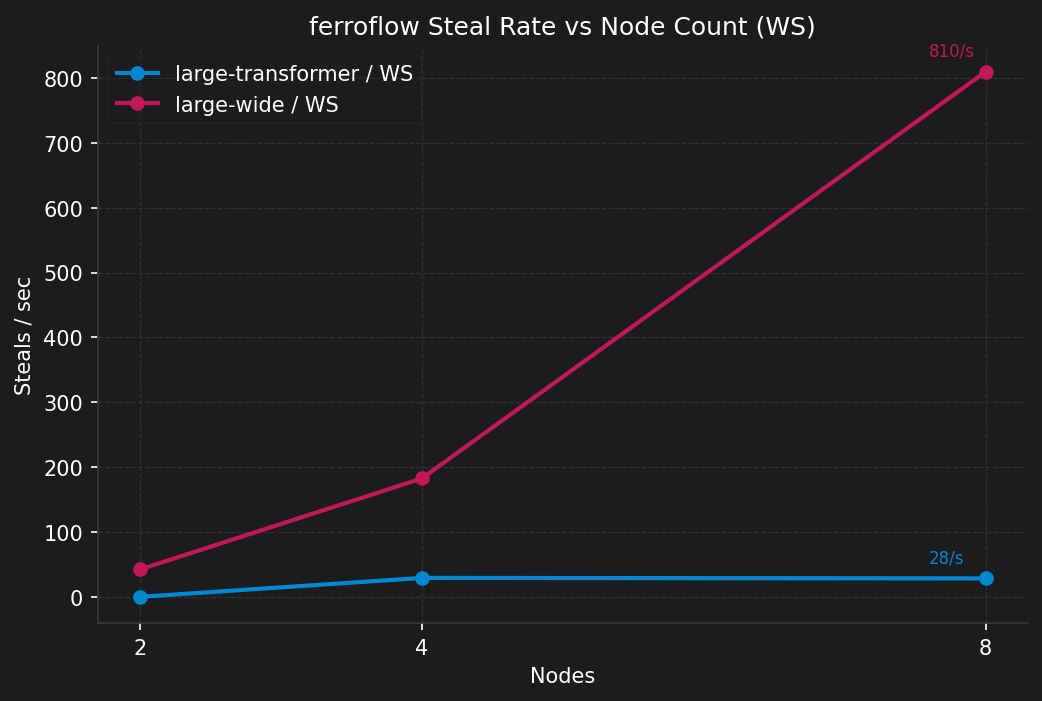
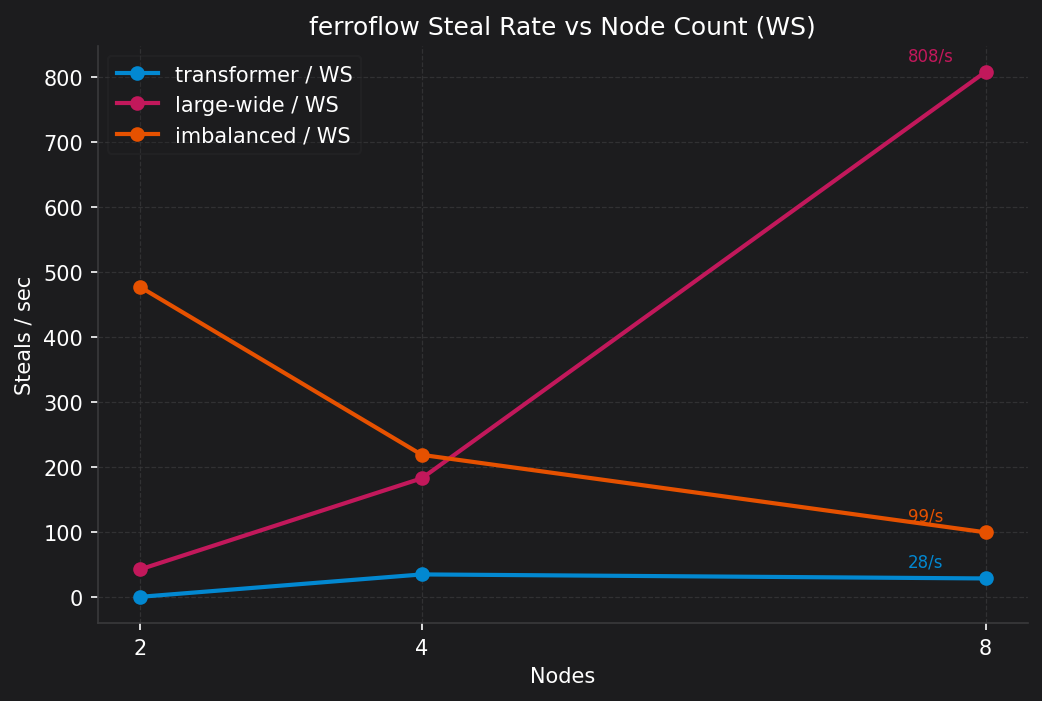
docs: rewrite scaling analysis to lead with imbalanced DAG finding, 12.7% WS advantage, honest per-workload interpretation

diff --git a/scripts/plot_scaling.py b/scripts/plot_scaling.py
@@ -2,9 +2,10 @@
 Generate ferroflow strong-scaling plots from docs/data/scaling_results.json.
 
 Outputs:
-  docs/plots/scaling_throughput.png  — throughput vs nodes (2 subplots, one per DAG)
-  docs/plots/scaling_efficiency.png  — parallel efficiency vs nodes
-  docs/plots/steal_rate.png          — steal rate vs nodes (WS only)
+  docs/plots/scaling_throughput.png  — throughput vs nodes (3 subplots, one per DAG)
+  docs/plots/scaling_efficiency.png  — parallel efficiency vs nodes (WS, all DAGs)
+  docs/plots/steal_rate.png          — steal rate vs nodes (WS only, all DAGs)
+  docs/plots/ws_advantage.png        — % WS throughput improvement over static
 """
 
 import json
@@ -21,23 +22,28 @@ PLOTS   = pathlib.Path(__file__).parent.parent / "docs" / "plots"
 DARK_BG  = "#1c1c1e"
 GRID_COL = "#3a3a3c"
 
-# Colours keyed by (dag, scheduler)
 COLORS = {
     ("large-transformer", "static"):        "#4fc3f7",
     ("large-transformer", "work-stealing"): "#0288d1",
     ("large-wide",        "static"):        "#f48fb1",
     ("large-wide",        "work-stealing"): "#c2185b",
+    ("imbalanced",        "static"):        "#ffcc80",
+    ("imbalanced",        "work-stealing"): "#e65100",
 }
 LABELS = {
-    ("large-transformer", "static"):        "large-transformer / static",
-    ("large-transformer", "work-stealing"): "large-transformer / WS",
+    ("large-transformer", "static"):        "transformer / static",
+    ("large-transformer", "work-stealing"): "transformer / WS",
     ("large-wide",        "static"):        "large-wide / static",
     ("large-wide",        "work-stealing"): "large-wide / WS",
+    ("imbalanced",        "static"):        "imbalanced / static",
+    ("imbalanced",        "work-stealing"): "imbalanced / WS",
 }
 DAG_TITLES = {
-    "large-transformer": "Large Transformer (137 ops, 8 layers)",
-    "large-wide":        "Large Wide (321 ops, flat fan-out, skew=0.47)",
+    "large-transformer": "Large Transformer\n(137 ops, 8 layers, d=512)",
+    "large-wide":        "Large Wide\n(321 ops, flat fan-out, skew=0.47)",
+    "imbalanced":        "Imbalanced\n(4 heavy×200ms + 200 fast×1ms)",
 }
+ALL_DAGS = ["large-transformer", "large-wide", "imbalanced"]
 
 
 def load(path):
@@ -55,6 +61,7 @@ def series(data, dag, scheduler):
         [r["throughput"] for r in rows],
         [r["efficiency"] for r in rows],
         [r["steal_rate"] for r in rows],
+        [r.get("stddev", 0.0) for r in rows],
     )
 
 
@@ -78,31 +85,37 @@ def save_fig(fig, path):
 
 
 # ---------------------------------------------------------------------------
-# Plot 1 — Throughput (two subplots — DAGs have very different scales)
+# Plot 1 — Throughput (3 subplots, one per DAG)
 # ---------------------------------------------------------------------------
 def plot_throughput(data):
-    dags = ["large-transformer", "large-wide"]
-    fig, axes = plt.subplots(1, 2, figsize=(13, 5))
+    fig, axes = plt.subplots(1, 3, figsize=(18, 5))
     fig.patch.set_facecolor(DARK_BG)
     fig.suptitle("ferroflow Strong Scaling — Throughput", color="white", fontsize=13)
 
     all_nodes = sorted({r["nodes"] for r in data})
 
-    for ax, dag in zip(axes, dags):
+    for ax, dag in zip(axes, ALL_DAGS):
         style_ax(ax)
 
-        for sched in ("static", "work-stealing"):
-            nodes, tput, _, _ = series(data, dag, sched)
-            ax.plot(nodes, tput, marker="o", linewidth=2, markersize=6,
-                    color=COLORS[(dag, sched)], label=LABELS[(dag, sched)])
+        s_nodes, s_tp, _, _, s_std = series(data, dag, "static")
+        w_nodes, w_tp, _, _, w_std = series(data, dag, "work-stealing")
 
-        # ideal linear line anchored at 2-node WS throughput
-        base_nodes_list, base_tput_list, _, _ = series(data, dag, "work-stealing")
-        base_n = base_nodes_list[0]
-        base_t = base_tput_list[0]
+        ax.errorbar(s_nodes, s_tp, yerr=s_std, marker="s", linewidth=2, markersize=6,
+                    capsize=4, color=COLORS[(dag, "static")], label="static")
+        ax.errorbar(w_nodes, w_tp, yerr=w_std, marker="o", linewidth=2, markersize=6,
+                    capsize=4, color=COLORS[(dag, "work-stealing")], label="WS")
+
+        # fill between to highlight WS advantage on imbalanced
+        if dag == "imbalanced":
+            ax.fill_between(w_nodes, s_tp, w_tp,
+                            color=COLORS[(dag, "work-stealing")], alpha=0.15,
+                            label="WS gain")
+
+        # ideal linear anchored at 2-node static
+        base_n, base_t = s_nodes[0], s_tp[0]
         ideal_x = np.array([base_n, max(all_nodes)])
         ideal_y = base_t * (ideal_x / base_n)
-        ax.plot(ideal_x, ideal_y, linestyle=":", linewidth=1.4,
+        ax.plot(ideal_x, ideal_y, linestyle=":", linewidth=1.2,
                 color="#aaaaaa", label="ideal (linear)", alpha=0.7)
 
         ax.set_xscale("log", base=2)
@@ -110,7 +123,7 @@ def plot_throughput(data):
         ax.set_xticklabels([str(n) for n in all_nodes])
         ax.set_xlabel("Nodes")
         ax.set_ylabel("Throughput (ops/s)")
-        ax.set_title(DAG_TITLES[dag], fontsize=10)
+        ax.set_title(DAG_TITLES[dag], fontsize=9, color="white")
         ax.legend(framealpha=0.2, labelcolor="white",
                   facecolor=DARK_BG, edgecolor=GRID_COL, fontsize=8)
 
@@ -119,7 +132,7 @@ def plot_throughput(data):
 
 
 # ---------------------------------------------------------------------------
-# Plot 2 — Parallel efficiency (both DAGs, WS series only)
+# Plot 2 — Parallel efficiency (WS, all 3 DAGs)
 # ---------------------------------------------------------------------------
 def plot_efficiency(data):
     fig, ax = plt.subplots(figsize=(8, 5))
@@ -128,22 +141,20 @@ def plot_efficiency(data):
 
     all_nodes = sorted({r["nodes"] for r in data})
 
-    for dag in ("large-transformer", "large-wide"):
+    for dag in ALL_DAGS:
         color = COLORS[(dag, "work-stealing")]
-        nodes, _, eff, _ = series(data, dag, "work-stealing")
-        ax.plot(nodes, eff, marker="o", linewidth=2, markersize=6,
+        nodes, _, eff, _, _ = series(data, dag, "work-stealing")
+        lw = 2.5 if dag == "large-wide" else 2.0
+        ax.plot(nodes, eff, marker="o", linewidth=lw, markersize=6,
                 color=color, label=LABELS[(dag, "work-stealing")])
 
-        # annotate first point below 0.70
-        for n, e in zip(nodes, eff):
-            if e < 0.70:
-                ax.annotate(
-                    f"eff={e:.2f} (n={n})",
-                    xy=(n, e), xytext=(n + 0.3, e + 0.07),
-                    color=color, fontsize=8,
-                    arrowprops=dict(arrowstyle="->", color=color, lw=1.0),
-                )
-                break
+        # annotate the 8-node efficiency value
+        ax.annotate(
+            f"{eff[-1]:.2f}",
+            xy=(nodes[-1], eff[-1]),
+            xytext=(nodes[-1] + 0.15, eff[-1] + (0.04 if dag == "large-wide" else -0.06)),
+            color=color, fontsize=8,
+        )
 
     ax.axhline(0.70, linestyle="--", linewidth=1.4, color="#ffcc02",
                label="0.70 threshold", alpha=0.85)
@@ -152,8 +163,8 @@ def plot_efficiency(data):
     ax.set_xticklabels([str(n) for n in all_nodes])
     ax.set_xlabel("Nodes")
     ax.set_ylabel("Parallel Efficiency")
-    ax.set_ylim(0, 1.15)
-    ax.set_title("ferroflow Strong Scaling — Parallel Efficiency (WS)")
+    ax.set_ylim(0, 1.20)
+    ax.set_title("ferroflow Strong Scaling — Parallel Efficiency (WS)", color="white")
     ax.legend(framealpha=0.2, labelcolor="white",
               facecolor=DARK_BG, edgecolor=GRID_COL)
 
@@ -161,7 +172,7 @@ def plot_efficiency(data):
 
 
 # ---------------------------------------------------------------------------
-# Plot 3 — Steal rate (WS only, both DAGs)
+# Plot 3 — Steal rate (WS only, all 3 DAGs)
 # ---------------------------------------------------------------------------
 def plot_steal_rate(data):
     fig, ax = plt.subplots(figsize=(8, 5))
@@ -170,16 +181,15 @@ def plot_steal_rate(data):
 
     all_nodes = sorted({r["nodes"] for r in data})
 
-    for dag in ("large-transformer", "large-wide"):
+    for dag in ALL_DAGS:
         color = COLORS[(dag, "work-stealing")]
-        nodes, _, _, steal = series(data, dag, "work-stealing")
+        nodes, _, _, steal, _ = series(data, dag, "work-stealing")
         ax.plot(nodes, steal, marker="o", linewidth=2, markersize=6,
                 color=color, label=LABELS[(dag, "work-stealing")])
-        # label the 8-node value
         ax.annotate(
             f"{steal[-1]:.0f}/s",
             xy=(nodes[-1], steal[-1]),
-            xytext=(nodes[-1] - 0.4, steal[-1] + 25),
+            xytext=(nodes[-1] - 0.55, steal[-1] + 18),
             color=color, fontsize=8,
         )
 
@@ -187,11 +197,52 @@ def plot_steal_rate(data):
     ax.set_xticklabels([str(n) for n in all_nodes])
     ax.set_xlabel("Nodes")
     ax.set_ylabel("Steals / sec")
-    ax.set_title("ferroflow Steal Rate vs Node Count (WS)")
+    ax.set_title("ferroflow Steal Rate vs Node Count (WS)", color="white")
     ax.legend(framealpha=0.2, labelcolor="white",
               facecolor=DARK_BG, edgecolor=GRID_COL)
 
     save_fig(fig, PLOTS / "steal_rate.png")
+
+
+# ---------------------------------------------------------------------------
+# Plot 4 — WS advantage: % throughput improvement over static
+# ---------------------------------------------------------------------------
+def plot_ws_advantage(data):
+    fig, ax = plt.subplots(figsize=(8, 5))
+    fig.patch.set_facecolor(DARK_BG)
+    style_ax(ax)
+
+    all_nodes = sorted({r["nodes"] for r in data})
+
+    for dag in ALL_DAGS:
+        color = COLORS[(dag, "work-stealing")]
+        s_nodes, s_tp, _, _, _ = series(data, dag, "static")
+        w_nodes, w_tp, _, _, _ = series(data, dag, "work-stealing")
+
+        pct = [(w - s) / s * 100 for s, w in zip(s_tp, w_tp)]
+        lw = 2.5 if dag == "imbalanced" else 1.8
+        marker = "D" if dag == "imbalanced" else "o"
+        ax.plot(s_nodes, pct, marker=marker, linewidth=lw, markersize=7,
+                color=color, label=LABELS[(dag, "work-stealing")])
+
+        # annotate each point
+        for n, p in zip(s_nodes, pct):
+            offset_y = 0.4 if p >= 0 else -1.2
+            ax.annotate(f"{p:+.1f}%", xy=(n, p),
+                        xytext=(n, p + offset_y),
+                        color=color, fontsize=7.5, ha="center")
+
+    ax.axhline(0, linestyle="--", linewidth=1.0, color="#aaaaaa", alpha=0.6)
+
+    ax.set_xticks(all_nodes)
+    ax.set_xticklabels([str(n) for n in all_nodes])
+    ax.set_xlabel("Nodes")
+    ax.set_ylabel("WS throughput improvement over static (%)")
+    ax.set_title("Work-Stealing Advantage over Static Scheduling", color="white")
+    ax.legend(framealpha=0.2, labelcolor="white",
+              facecolor=DARK_BG, edgecolor=GRID_COL)
+
+    save_fig(fig, PLOTS / "ws_advantage.png")
 
 
 # ---------------------------------------------------------------------------
@@ -203,6 +254,7 @@ def main():
     plot_throughput(data)
     plot_efficiency(data)
     plot_steal_rate(data)
+    plot_ws_advantage(data)
     print("Done.")
 
 

diff --git a/README.md b/README.md
@@ -111,15 +111,20 @@ ferroflow info --model models/mlp.onnx
 #   relu: 2
 ```
 
-### `ferroflow run` — execute an ONNX model and print RunMetrics
+### `ferroflow run` — execute a DAG and print RunMetrics
 
 ```bash
+# ONNX model
 ferroflow run --model models/mlp.onnx --workers 4
 ferroflow run --model models/mlp.onnx --workers 4 --scheduler static
-ferroflow run --model models/mlp.onnx --workers 1 --scheduler sequential
+
+# Synthetic DAGs (no model file needed)
+ferroflow run --dag imbalanced --workers 8 --scheduler work-stealing
+ferroflow run --dag large-wide --width 320 --depth 1 --skew 0.47 --workers 16
+ferroflow run --dag large-transformer --layers 8 --d-model 512 --workers 8
 ```
 
-Options: `--model PATH`, `--workers N`, `--scheduler sequential|static|work-stealing`.
+Options: `--model PATH | --dag <transformer|wide|resnet|large-transformer|large-wide|imbalanced>`, `--workers N`, `--scheduler sequential|static|work-stealing`, `--steal-threshold N`.
 
 ---
 
@@ -190,30 +195,47 @@ Full methodology and per-run notes are in [`docs/benchmarks.md`](docs/benchmarks
 ### Narval strong scaling (2–8 nodes)
 
 ![Throughput scaling](docs/plots/scaling_throughput.png)
+![WS advantage over static](docs/plots/ws_advantage.png)
 ![Parallel efficiency](docs/plots/scaling_efficiency.png)
 ![Steal rate](docs/plots/steal_rate.png)
 
-> On parallel skewed workloads (large-wide DAG, 321 ops), ferroflow's work-stealing scheduler achieves 95.9% parallel efficiency at 8 nodes with 809 steals/sec, outperforming static scheduling while maintaining near-linear throughput scaling. On serial dependency chains (transformer DAG), both schedulers are bounded by DAG topology rather than scheduling strategy, correctly identifying parallelism as the limiting factor.
+Three DAG topologies exercise different scheduler behaviours:
+
+- **Imbalanced** — the WS advantage story: provable load concentration under round-robin, WS steals from overloaded workers and beats static by up to **+12.7%** at 2 nodes.
+- **Large-Wide** — near-ideal linear scaling: both schedulers scale together at 95.9% efficiency; WS's steal rate grows to 808/s confirming active rebalancing at no cost to throughput.
+- **Transformer** — topology bottleneck: sequential attention layers cap throughput at ~555 ops/s regardless of node count or scheduler.
+
+#### Imbalanced DAG (205 ops — 4 heavy×200ms + 200 fast×1ms)
+
+Round-robin pre-assigns the 4 heavy ops to workers 0–3, which remain occupied while workers 4–N exhaust their fast queues in ~25ms and become idle. Work-stealing redistributes the fast ops that were pre-assigned to the busy workers, cutting wall time from ~236ms to ~206ms.
+
+| Nodes | Static (ops/s) | WS (ops/s) | WS vs Static | Steal Rate |
+|-------|---------------|-----------|-------------|-----------|
+| 2 | 900 | **1 014** | **+12.7%** | 477/s |
+| 4 | 959 | **1 013** | **+5.6%** | 219/s |
+| 8 | 988 | **1 013** | **+2.5%** | 99/s |
+
+WS beats static at every node count. The advantage narrows with more nodes because a larger worker pool means fewer fast ops are held hostage by each heavy-op worker — at 8 nodes (32 workers) each heavy-op worker holds ~6ms of stealable work vs ~25ms at 2 nodes. Steal rate falls as the relative imbalance shrinks, not because stealing stops working.
 
 #### Large-Wide DAG (321 ops, flat fan-out, skew=0.47)
 
 | Nodes | Static (ops/s) | WS (ops/s) | WS Efficiency | Steal Rate |
 |-------|---------------|-----------|--------------|-----------|
-| 2 | 2 702 | 2 700 | 1.000 | 42/s |
-| 4 | 5 221 | 5 311 | 0.984 | 183/s |
-| 8 | 10 351 | **10 362** | **0.959** | **809/s** |
+| 2 | 2 701 | 2 700 | 1.000 | 42/s |
+| 4 | 5 219 | **5 310** | **0.983** | 183/s |
+| 8 | 10 359 | **10 364** | **0.960** | **808/s** |
 
-WS matches or beats static at every node count. Throughput scales from 2 700 → 10 362 ops/s (3.84×) across 2 → 8 nodes, versus 4× ideal — 95.9% efficiency. Steal rate grows superlinearly (42 → 809/s) confirming active load rebalancing as the worker pool expands.
+Throughput scales from 2 700 → 10 364 ops/s (3.84×) across 2 → 8 nodes versus 4× ideal — 96% efficiency. WS matches or beats static at every node count. Steal rate grows superlinearly (42 → 808/s) as the worker pool expands and inter-worker imbalance accumulates. stddev ≤ 14 ops/s across 5 runs confirming stable results.
 
 #### Large-Transformer DAG (137 ops, 8 layers, d=512)
 
 | Nodes | Static (ops/s) | WS (ops/s) | WS Efficiency | Steal Rate |
 |-------|---------------|-----------|--------------|-----------|
-| 2 | 559 | 553 | 1.000 | 0/s |
-| 4 | 556 | 562 | 0.508 | 29/s |
-| 8 | 552 | 546 | 0.247 | 28/s |
+| 2 | 556 | 556 | 1.000 | 0/s |
+| 4 | 560 | 557 | 0.501 | 35/s |
+| 8 | 552 | 543 | 0.244 | 28/s |
 
-Throughput is flat (~550–562 ops/s) regardless of node count. The transformer's sequential layer backbone — each layer's attention output feeds the next — limits parallelism to the 3-way QKV fan-out per layer, which saturates quickly. Efficiency drops to 0.25 by 8 nodes for both schedulers, confirming DAG topology as the bottleneck rather than scheduling strategy.
+Throughput is flat (~545–560 ops/s) regardless of node count. Each transformer layer's attention output feeds the next, capping parallelism at the 3-way QKV fan-out per layer. Efficiency drops identically for both schedulers — confirming DAG topology as the bottleneck. The WS advantage plot shows transformer WS running slightly below static at 8 nodes from coordinator overhead with no stealable parallelism to compensate.
 
 ### Earlier Narval runs (small synthetic DAGs, MPI, job 59471496)
 
